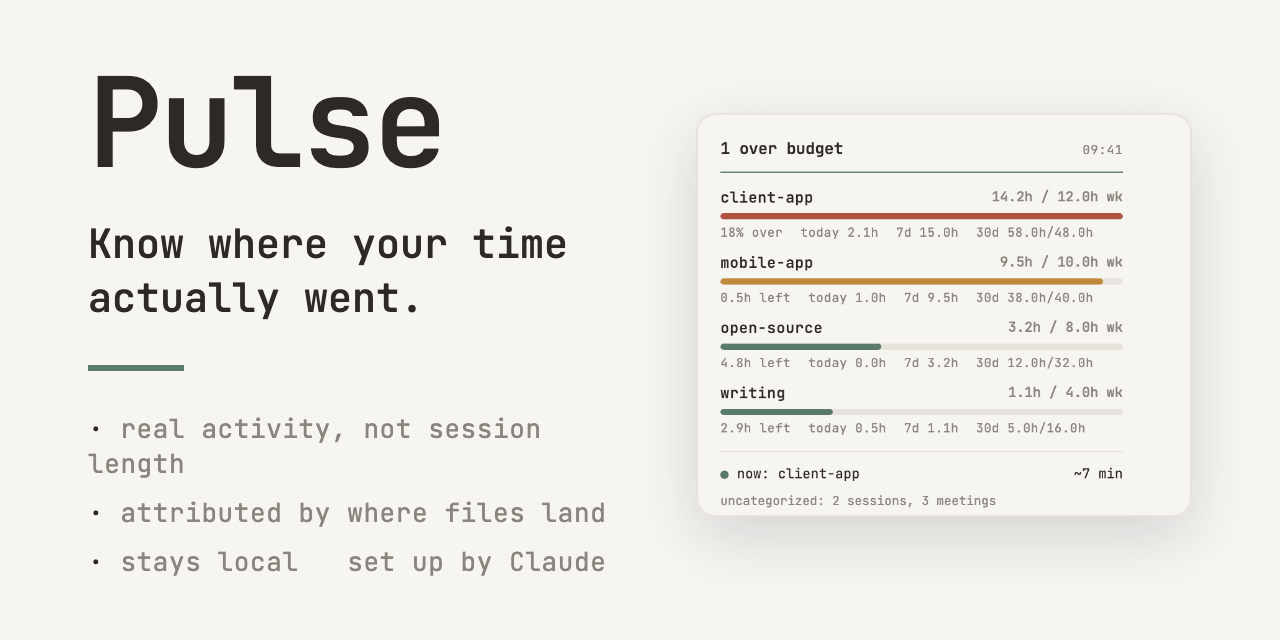
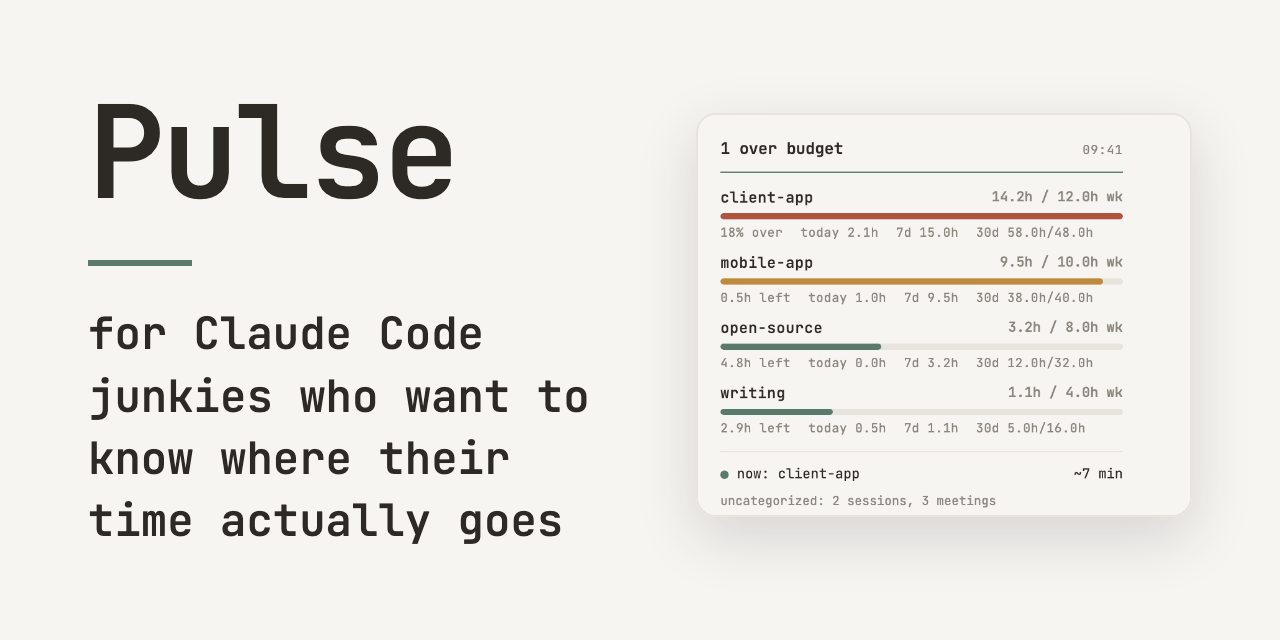
docs: social card — 'for Claude Code junkies...' subhead, drop the pillars

diff --git a/hero/render_og.py b/hero/render_og.py
@@ -31,11 +31,9 @@ html,body{{width:640px;height:320px;background:var(--cream);
   font-family:'JBM',monospace;color:var(--ink);overflow:hidden;}}
 .wrap{{display:flex;width:100%;height:100%;align-items:center;padding:0 44px;gap:34px;}}
 .left{{flex:1;}}
-.mark{{font-size:62px;font-weight:600;letter-spacing:-1.5px;line-height:1;}}
-.tag{{font-size:20px;font-weight:500;margin-top:16px;line-height:1.35;max-width:330px;}}
-.rule{{width:48px;height:3px;background:var(--sage);margin:20px 0;}}
-.pillars{{display:flex;flex-direction:column;gap:7px;font-size:13px;color:var(--muted);letter-spacing:0.3px;}}
-.pillars b{{color:var(--ink);font-weight:600;}}
+.mark{{font-size:64px;font-weight:600;letter-spacing:-1.5px;line-height:1;}}
+.rule{{width:52px;height:3px;background:var(--sage);margin:22px 0 18px;}}
+.tag{{font-size:22px;font-weight:500;line-height:1.42;max-width:380px;}}
 .right{{flex-shrink:0;}}
 .right img{{width:248px;border-radius:10px;
   box-shadow:0 10px 30px rgba(45,42,38,0.16);border:1px solid #E7E3DD;}}
@@ -43,13 +41,8 @@ html,body{{width:640px;height:320px;background:var(--cream);
 <div class="wrap">
   <div class="left">
     <div class="mark">Pulse</div>
-    <div class="tag">Know where your time actually went.</div>
     <div class="rule"></div>
-    <div class="pillars">
-      <span><b>·</b> real activity, not session length</span>
-      <span><b>·</b> attributed by where files land</span>
-      <span><b>·</b> stays local &nbsp; set up by Claude</span>
-    </div>
+    <div class="tag">for Claude Code junkies who want to know where their time actually goes</div>
   </div>
   <div class="right"><img src="file://{HERO}"></div>
 </div>
